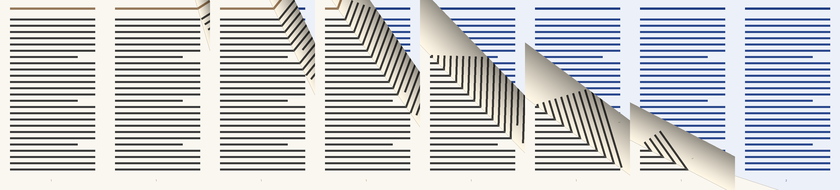
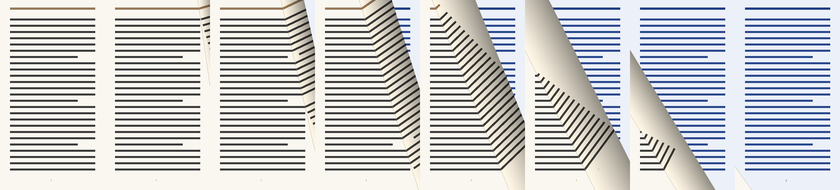
仿真翻页：折痕倾斜幅度减半，改为直接写偏离竖直的角度

diff --git a/Sources/NovelReader/Features/Reader/CurledPage.swift b/Sources/NovelReader/Features/Reader/CurledPage.swift
@@ -68,10 +68,13 @@ struct CurlGeometry {
 
     /// Unit tangent along the crease.
     var tangent: CGPoint {
-        // Nearly vertical next to the lifted top corner, tilting flatter as the
-        // fold sweeps down the page, so the lifted corner grows.
-        let degrees = 80 - 62 * progress
-        let radians = degrees * .pi / 180
+        // Expressed as the tilt *away from vertical*, which is what the eye
+        // reads: 5° next to the lifted top corner, opening to 36° as the fold
+        // sweeps down. It used to open to 72°, which made the crease look like a
+        // diagonal slash across the page instead of a fold; the sweep is now
+        // half of that.
+        let tilt = 5 + 31 * progress
+        let radians = (90 - tilt) * .pi / 180
         let dx = cos(radians)
         let dy = sin(radians)
         return forward ? CGPoint(x: dx, y: dy) : CGPoint(x: -dx, y: dy)

diff --git a/Tools/verify-curl-geometry.py b/Tools/verify-curl-geometry.py
@@ -33,8 +33,9 @@ def geometry(t, forward=True):
     y = H * 0.94 * t
     cp = (x, y) if forward else (W - x, y)
 
-    deg = 80 - 62 * t
-    rad = math.radians(deg)
+    # Tilt away from vertical, half of what it used to be.
+    tilt = 5 + 31 * t
+    rad = math.radians(90 - tilt)
     dx, dy = math.cos(rad), math.sin(rad)
     tan = (dx, dy) if forward else (-dx, dy)
 
